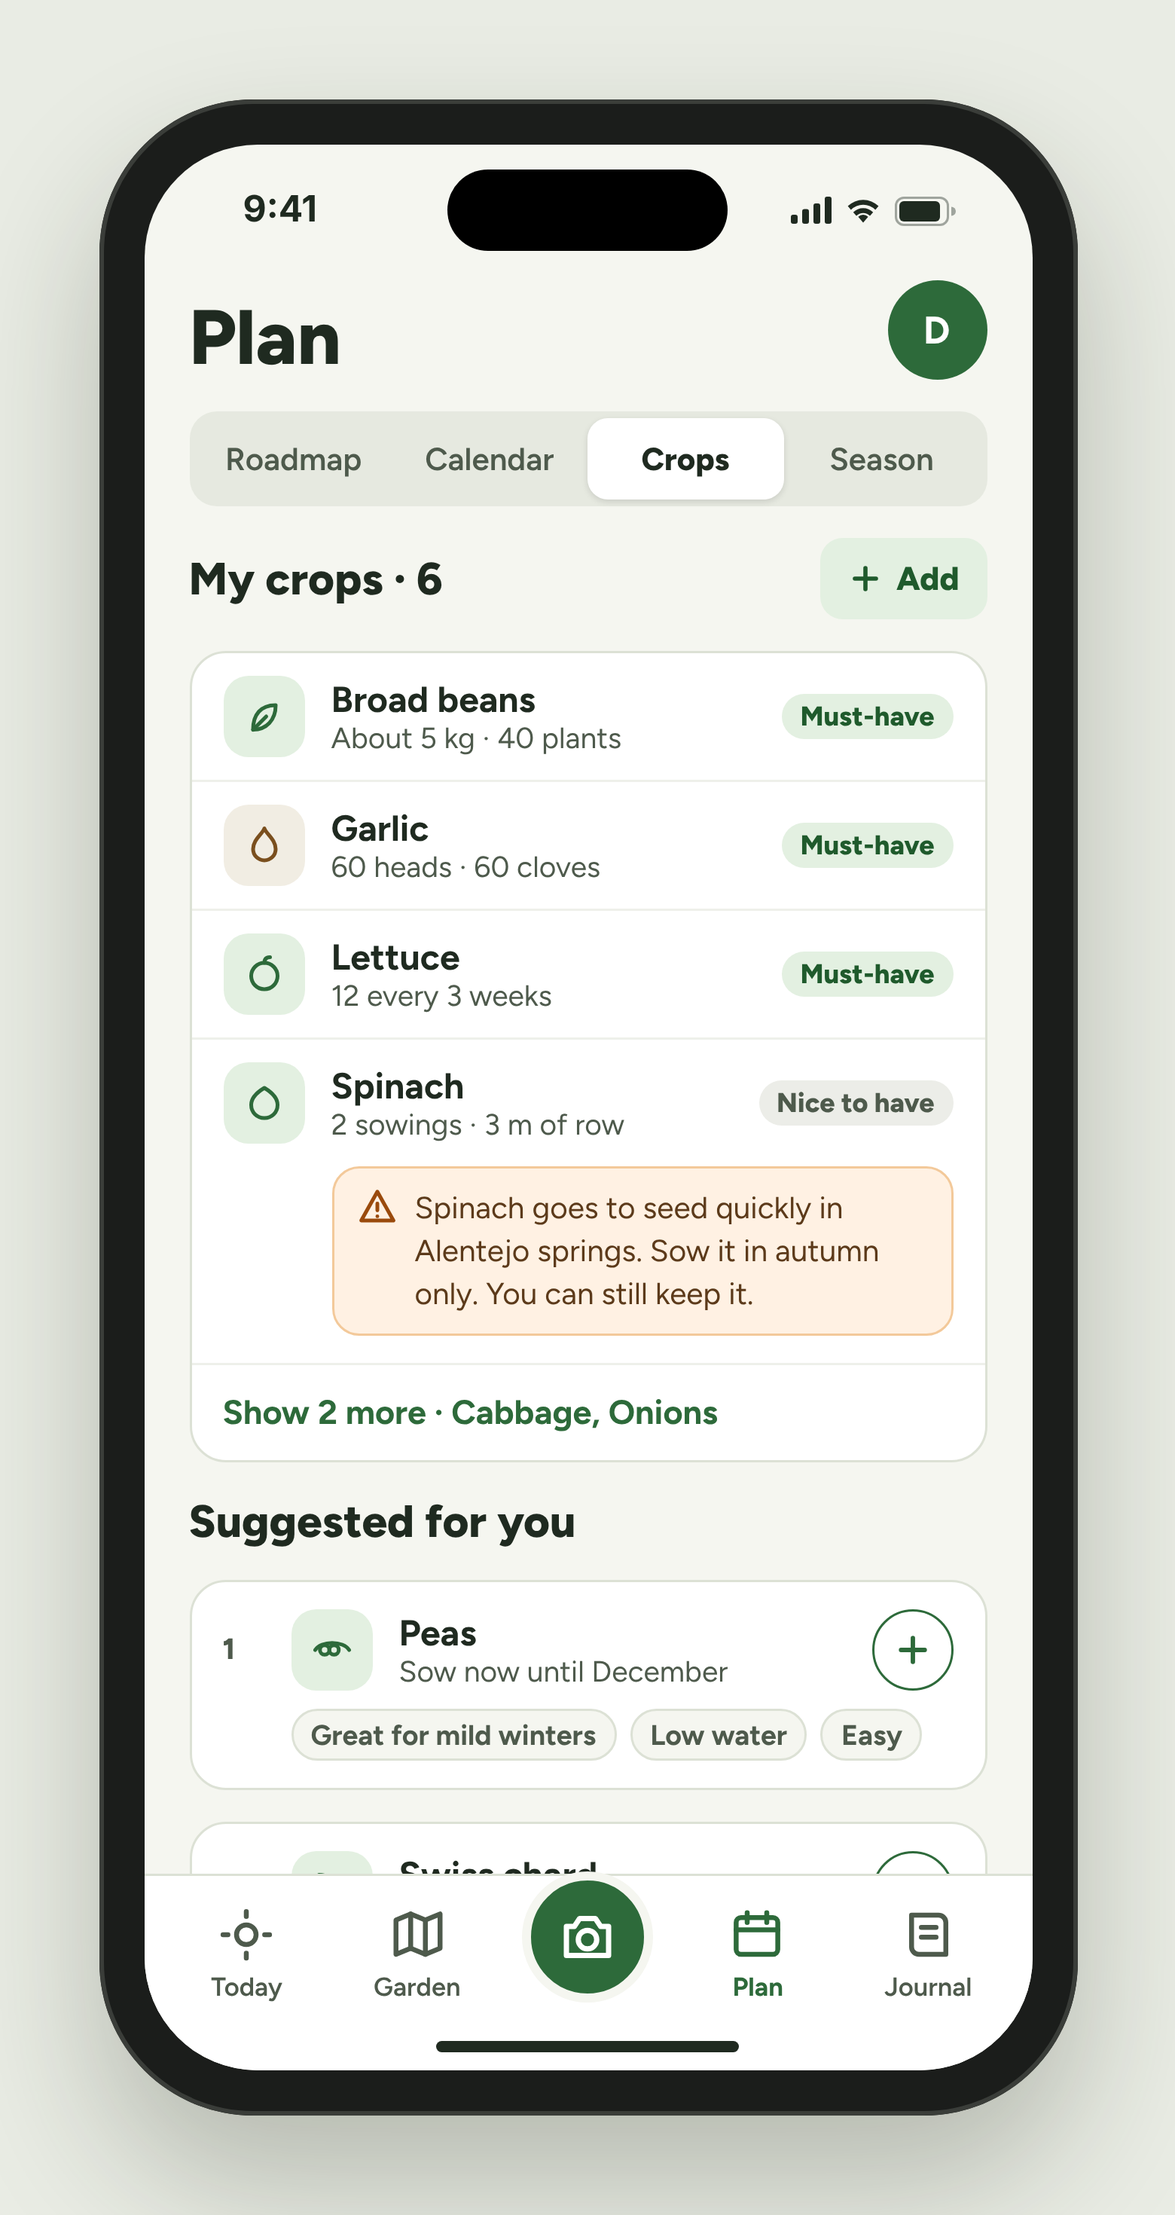
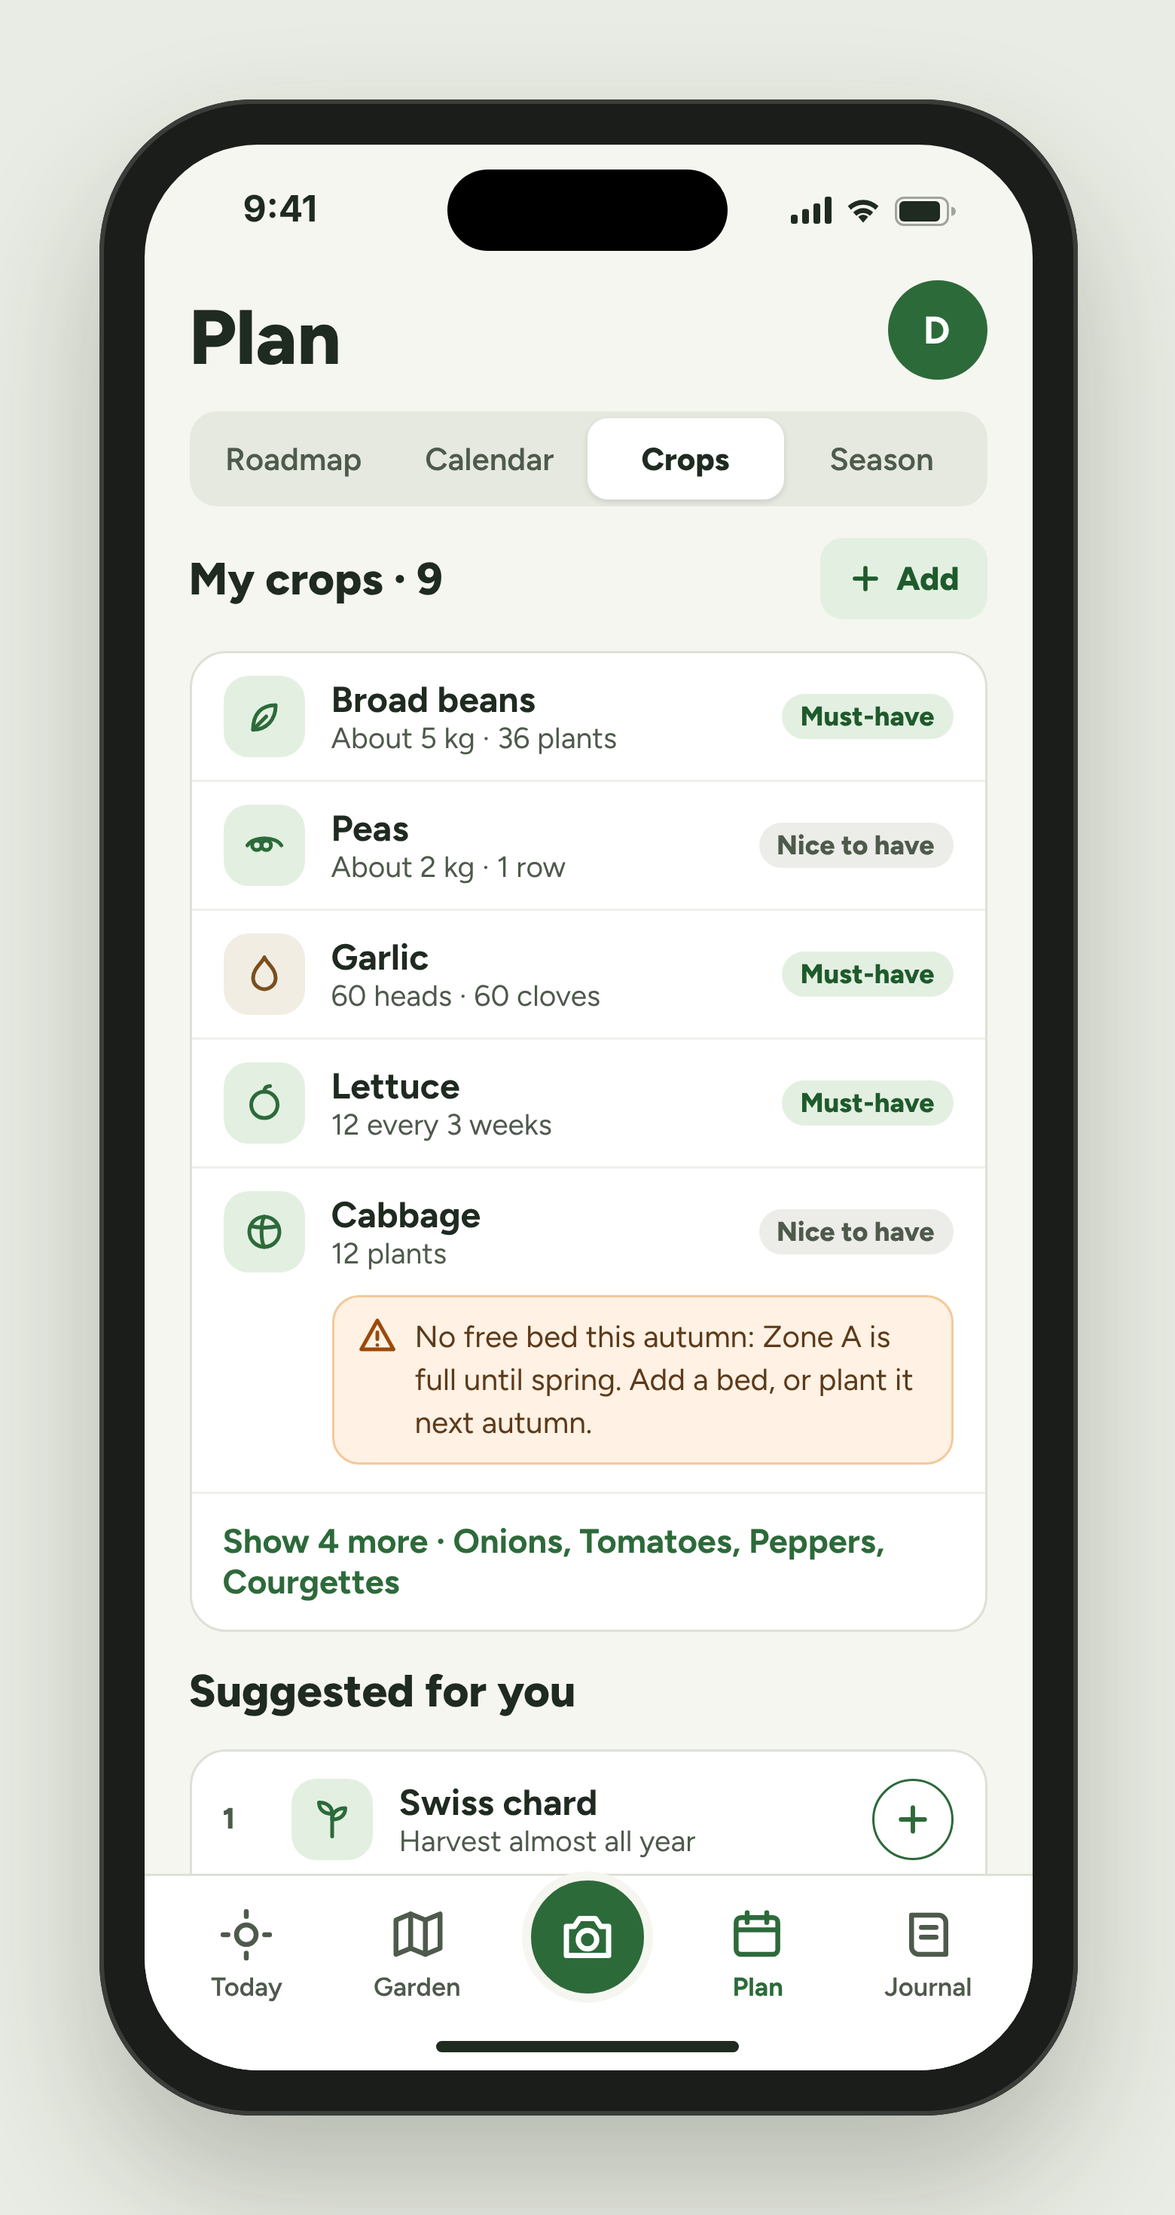
Design E4 my crops: all 9 chosen crops, space warning on cabbage, suggestions exclude chosen crops
Claude-Session: https://claude.ai/code/session_015NynAjU4naPZwzmeuGazot

diff --git a/design/source/E4-my-crops-full.html b/design/source/E4-my-crops-full.html
@@ -1,0 +1,105 @@
+<!doctype html>
+<html lang="en">
+<head>
+<meta charset="utf-8">
+<title>E4 My crops</title>
+<link href="https://fonts.googleapis.com/css2?family=Figtree:wght@400;500;600;700;800&display=swap" rel="stylesheet">
+<link rel="stylesheet" href="frame.css">
+<style>
+  .content { flex: 1; padding: 6px 20px 120px; display: flex; flex-direction: column; gap: 14px; overflow: hidden; }
+  .head { display: flex; justify-content: space-between; align-items: flex-end; }
+  .head h1 { margin: 0; font-size: 34px; font-weight: 800; line-height: 1.1; }
+  .avatar { width: 44px; height: 44px; border-radius: 999px; background: var(--green); color: #fff; font-size: 17px; font-weight: 700; display: flex; align-items: center; justify-content: center; }
+  .seg { display: grid; grid-template-columns: repeat(4, minmax(0, 1fr)); background: #E6E9E0; border-radius: 12px; padding: 3px; }
+  .seg span { height: 36px; display: flex; align-items: center; justify-content: center; border-radius: 9px; font-size: 14px; font-weight: 600; color: var(--muted); }
+  .seg span.on { background: #fff; color: var(--text); font-weight: 800; box-shadow: 0 1px 3px rgba(0,0,0,.12); }
+  .sec { display: flex; justify-content: space-between; align-items: center; }
+  .sec h2 { margin: 0; font-size: 20px; font-weight: 800; }
+  .addbtn { display: flex; align-items: center; gap: 6px; height: 36px; padding: 0 12px; border-radius: 10px; background: var(--green-soft); color: var(--green-ink); font-size: 14.5px; font-weight: 800; }
+  .list { background: #fff; border: 1px solid var(--line); border-radius: 16px; }
+  .crop { display: flex; align-items: center; gap: 12px; padding: 10px 14px; border-top: 1px solid #EEF0EA; }
+  .crop:first-child { border-top: none; }
+  .ic { width: 36px; height: 36px; border-radius: 11px; display: flex; align-items: center; justify-content: center; flex: none; }
+  .crop .n { font-size: 16px; font-weight: 700; }
+  .crop .q { font-size: 13px; color: var(--muted); }
+  .pri { margin-left: auto; font-size: 12px; font-weight: 800; padding: 3px 8px; border-radius: 999px; white-space: nowrap; }
+  .must { background: var(--green-soft); color: var(--green-ink); }
+  .nice { background: #ECEDE8; color: var(--muted); }
+  .warn { margin: 0 14px 12px 62px; background: var(--orange-soft); border: 1px solid #F3C99A; border-radius: 12px; padding: 8px 10px; font-size: 13.5px; color: #5C3A1A; line-height: 1.4; display: flex; gap: 8px; }
+  .sug { background: #fff; border: 1px solid var(--line); border-radius: 16px; padding: 12px 14px; display: flex; flex-direction: column; gap: 8px; }
+  .sug .top { display: flex; align-items: center; gap: 12px; }
+  .rank { font-size: 13px; font-weight: 800; color: var(--muted); width: 18px; }
+  .tags { display: flex; flex-wrap: wrap; gap: 6px; padding-left: 30px; }
+  .tags span { font-size: 12.5px; font-weight: 700; padding: 3px 8px; border-radius: 999px; background: var(--bg); color: var(--muted); border: 1px solid var(--line); }
+  .plus { margin-left: auto; width: 36px; height: 36px; border-radius: 999px; border: 1.5px solid var(--green); display: flex; align-items: center; justify-content: center; flex: none; }
+  .tabbar { position: absolute; bottom: 0; left: 0; right: 0; background: #fff; border-top: 1px solid var(--line); padding: 8px 8px 30px; display: grid; grid-template-columns: repeat(5, minmax(0, 1fr)); align-items: end; z-index: 45; }
+  .tab { color: var(--muted); display: flex; flex-direction: column; align-items: center; gap: 3px; font-size: 11.5px; font-weight: 600; min-height: 48px; justify-content: flex-end; }
+  .tab.on { color: var(--green); font-weight: 700; }
+  .cam { display: flex; justify-content: center; }
+  .cam span { width: 58px; height: 58px; border-radius: 999px; background: var(--green); display: flex; align-items: center; justify-content: center; margin-top: -22px; border: 4px solid var(--bg); }
+</style>
+<style>.stage{height:1130px}.phone{height:1070px}.screen{height:1030px}</style>
+</head>
+<body>
+<div class="stage"><div class="phone"><div class="screen">
+  <div class="island"></div>
+  <div class="status">
+    <span>9:41</span>
+    <span class="icons">
+      <svg width="18" height="12" viewBox="0 0 18 12"><rect x="0" y="8" width="3" height="4" rx="1" fill="#1F2A20"/><rect x="5" y="5.5" width="3" height="6.5" rx="1" fill="#1F2A20"/><rect x="10" y="3" width="3" height="9" rx="1" fill="#1F2A20"/><rect x="15" y="0" width="3" height="12" rx="1" fill="#1F2A20"/></svg>
+      <svg width="16" height="12" viewBox="0 0 16 12"><path d="M8 11.5l2.2-2.6a3.2 3.2 0 0 0-4.4 0z" fill="#1F2A20"/><path d="M3.6 6.9a6.3 6.3 0 0 1 8.8 0l-1.4 1.6a4.2 4.2 0 0 0-6 0z" fill="#1F2A20"/><path d="M1.2 4.2a9.7 9.7 0 0 1 13.6 0l-1.4 1.6a7.6 7.6 0 0 0-10.8 0z" fill="#1F2A20"/></svg>
+      <svg width="27" height="13" viewBox="0 0 27 13"><rect x="0.5" y="0.5" width="23" height="12" rx="3.5" fill="none" stroke="#1F2A20" opacity=".4"/><rect x="2" y="2" width="18" height="9" rx="2" fill="#1F2A20"/><path d="M25 4.5v4a2 2 0 0 0 0-4z" fill="#1F2A20" opacity=".4"/></svg>
+    </span>
+  </div>
+
+  <div class="content">
+    <div class="head"><h1>Plan</h1><div class="avatar">D</div></div>
+    <div class="seg"><span>Roadmap</span><span>Calendar</span><span class="on">Crops</span><span>Season</span></div>
+
+    <div class="sec"><h2>My crops · 9</h2>
+      <span class="addbtn"><svg width="16" height="16" viewBox="0 0 24 24" fill="none" stroke="#1F5A2C" stroke-width="2.8" stroke-linecap="round"><path d="M12 5v14M5 12h14"/></svg>Add</span></div>
+
+    <div class="list">
+      <div class="crop"><span class="ic" style="background:#E3F0E1"><svg width="20" height="20" viewBox="0 0 24 24" fill="none" stroke="#2D6A3A" stroke-width="2" stroke-linecap="round" stroke-linejoin="round"><path d="M6 19c7 0 12-5 12-13-8 0-12 5-12 13z"/><path d="M6 19l7-7"/></svg></span>
+        <div><div class="n">Broad beans</div><div class="q">About 5 kg · 36 plants</div></div><span class="pri must">Must-have</span></div>
+      <div class="crop"><span class="ic" style="background:#E3F0E1"><svg width="20" height="20" viewBox="0 0 24 24" fill="none" stroke="#2D6A3A" stroke-width="2" stroke-linecap="round" stroke-linejoin="round"><circle cx="8" cy="12" r="2.5"/><circle cx="13" cy="12" r="2.5"/><path d="M3 12c3-5 15-5 18 0"/></svg></span>
+        <div><div class="n">Peas</div><div class="q">About 2 kg · 1 row</div></div><span class="pri nice">Nice to have</span></div>
+      <div class="crop"><span class="ic" style="background:#F1EDE3"><svg width="20" height="20" viewBox="0 0 24 24" fill="none" stroke="#7A4F1E" stroke-width="2" stroke-linecap="round" stroke-linejoin="round"><path d="M12 3c-1 3-6 6-6 11a6 6 0 0 0 12 0c0-5-5-8-6-11z"/></svg></span>
+        <div><div class="n">Garlic</div><div class="q">60 heads · 60 cloves</div></div><span class="pri must">Must-have</span></div>
+      <div class="crop"><span class="ic" style="background:#E3F0E1"><svg width="20" height="20" viewBox="0 0 24 24" fill="none" stroke="#2D6A3A" stroke-width="2" stroke-linecap="round" stroke-linejoin="round"><circle cx="12" cy="13" r="7"/><path d="M12 6c0-2 1-3 3-3"/></svg></span>
+        <div><div class="n">Lettuce</div><div class="q">12 every 3 weeks</div></div><span class="pri must">Must-have</span></div>
+      <div class="crop"><span class="ic" style="background:#E3F0E1"><svg width="20" height="20" viewBox="0 0 24 24" fill="none" stroke="#2D6A3A" stroke-width="2" stroke-linecap="round" stroke-linejoin="round"><circle cx="12" cy="12" r="8"/><path d="M12 4c-2 3-2 13 0 16M5 9c4 1 10 1 14 0"/></svg></span>
+        <div><div class="n">Cabbage</div><div class="q">12 plants</div></div><span class="pri nice">Nice to have</span></div>
+      <div class="warn">
+        <svg width="18" height="18" viewBox="0 0 24 24" fill="none" stroke="#9A4A0C" stroke-width="2.2" stroke-linecap="round" stroke-linejoin="round" style="flex: none"><path d="M12 3l9.5 17h-19z"/><path d="M12 10v4M12 17.5v.01"/></svg>
+        <span>No free bed this autumn: Zone A is full until spring. Add a bed, or plant it next autumn.</span>
+      </div>
+      <div style="border-top: 1px solid #EEF0EA; padding: 12px 14px; font-size: 15px; font-weight: 700; color: var(--green)">Show 4 more · Onions, Tomatoes, Peppers, Courgettes</div>
+    </div>
+
+    <div class="sec"><h2>Suggested for you</h2></div>
+    <div class="sug">
+      <div class="top"><span class="rank">1</span><span class="ic" style="background:#E3F0E1"><svg width="20" height="20" viewBox="0 0 24 24" fill="none" stroke="#2D6A3A" stroke-width="2" stroke-linecap="round" stroke-linejoin="round"><path d="M12 21V9"/><path d="M12 9c-4 0-7-2-7-6 4 0 7 2 7 6zM12 12c4 0 7-2 7-6-4 0-7 2-7 6z"/></svg></span>
+        <div><div style="font-size: 16px; font-weight: 700">Swiss chard</div><div style="font-size: 13px; color: var(--muted)">Harvest almost all year</div></div>
+        <span class="plus"><svg width="18" height="18" viewBox="0 0 24 24" fill="none" stroke="#2D6A3A" stroke-width="2.6" stroke-linecap="round"><path d="M12 5v14M5 12h14"/></svg></span></div>
+      <div class="tags"><span>Handles heat</span><span>Easy</span><span>Fits Zone A</span></div>
+    </div>
+    <div class="sug">
+      <div class="top"><span class="rank">2</span><span class="ic" style="background:#E3F0E1"><svg width="20" height="20" viewBox="0 0 24 24" fill="none" stroke="#2D6A3A" stroke-width="2" stroke-linecap="round" stroke-linejoin="round"><path d="M12 20c-4 0-7-3-7-7 0-3 2-6 7-9 5 3 7 6 7 9 0 4-3 7-7 7z"/></svg></span>
+        <div><div style="font-size: 16px; font-weight: 700">Spinach</div><div style="font-size: 13px; color: var(--muted)">Sow now until December</div></div>
+        <span class="plus"><svg width="18" height="18" viewBox="0 0 24 24" fill="none" stroke="#2D6A3A" stroke-width="2.6" stroke-linecap="round"><path d="M12 5v14M5 12h14"/></svg></span></div>
+      <div class="tags"><span>Autumn only here</span><span>Quick</span><span>Easy</span></div>
+    </div>
+  </div>
+
+  <nav class="tabbar">
+    <div class="tab"><svg width="26" height="26" viewBox="0 0 24 24" fill="none" stroke="currentColor" stroke-width="2" stroke-linecap="round" stroke-linejoin="round"><circle cx="12" cy="12" r="4"/><path d="M12 2.5v2M12 19.5v2M2.5 12h2M19.5 12h2"/></svg>Today</div>
+    <div class="tab"><svg width="26" height="26" viewBox="0 0 24 24" fill="none" stroke="currentColor" stroke-width="2" stroke-linecap="round" stroke-linejoin="round"><path d="M3 6l6-2.5 6 2.5 6-2.5v14l-6 2.5-6-2.5-6 2.5z"/><path d="M9 3.5v14M15 6v14"/></svg>Garden</div>
+    <div class="cam"><span><svg width="28" height="28" viewBox="0 0 24 24" fill="none" stroke="#FFFFFF" stroke-width="2" stroke-linecap="round" stroke-linejoin="round"><path d="M4 8h3l2-3h6l2 3h3v11H4z"/><circle cx="12" cy="13" r="3.5"/></svg></span></div>
+    <div class="tab on"><svg width="26" height="26" viewBox="0 0 24 24" fill="none" stroke="currentColor" stroke-width="2" stroke-linecap="round" stroke-linejoin="round"><rect x="3.5" y="5" width="17" height="15" rx="2"/><path d="M3.5 10h17M8 3v4M16 3v4"/></svg>Plan</div>
+    <div class="tab"><svg width="26" height="26" viewBox="0 0 24 24" fill="none" stroke="currentColor" stroke-width="2" stroke-linecap="round" stroke-linejoin="round"><path d="M5 4h11a3 3 0 0 1 3 3v13H8a3 3 0 0 1-3-3z"/><path d="M9 9h6M9 13h6"/></svg>Journal</div>
+  </nav>
+  <div class="home"></div>
+</div></div></div>
+</body>
+</html>

diff --git a/design/source/E4-my-crops.html b/design/source/E4-my-crops.html
@@ -55,37 +55,39 @@
     <div class="head"><h1>Plan</h1><div class="avatar">D</div></div>
     <div class="seg"><span>Roadmap</span><span>Calendar</span><span class="on">Crops</span><span>Season</span></div>
 
-    <div class="sec"><h2>My crops · 6</h2>
+    <div class="sec"><h2>My crops · 9</h2>
       <span class="addbtn"><svg width="16" height="16" viewBox="0 0 24 24" fill="none" stroke="#1F5A2C" stroke-width="2.8" stroke-linecap="round"><path d="M12 5v14M5 12h14"/></svg>Add</span></div>
 
     <div class="list">
       <div class="crop"><span class="ic" style="background:#E3F0E1"><svg width="20" height="20" viewBox="0 0 24 24" fill="none" stroke="#2D6A3A" stroke-width="2" stroke-linecap="round" stroke-linejoin="round"><path d="M6 19c7 0 12-5 12-13-8 0-12 5-12 13z"/><path d="M6 19l7-7"/></svg></span>
-        <div><div class="n">Broad beans</div><div class="q">About 5 kg · 40 plants</div></div><span class="pri must">Must-have</span></div>
+        <div><div class="n">Broad beans</div><div class="q">About 5 kg · 36 plants</div></div><span class="pri must">Must-have</span></div>
+      <div class="crop"><span class="ic" style="background:#E3F0E1"><svg width="20" height="20" viewBox="0 0 24 24" fill="none" stroke="#2D6A3A" stroke-width="2" stroke-linecap="round" stroke-linejoin="round"><circle cx="8" cy="12" r="2.5"/><circle cx="13" cy="12" r="2.5"/><path d="M3 12c3-5 15-5 18 0"/></svg></span>
+        <div><div class="n">Peas</div><div class="q">About 2 kg · 1 row</div></div><span class="pri nice">Nice to have</span></div>
       <div class="crop"><span class="ic" style="background:#F1EDE3"><svg width="20" height="20" viewBox="0 0 24 24" fill="none" stroke="#7A4F1E" stroke-width="2" stroke-linecap="round" stroke-linejoin="round"><path d="M12 3c-1 3-6 6-6 11a6 6 0 0 0 12 0c0-5-5-8-6-11z"/></svg></span>
         <div><div class="n">Garlic</div><div class="q">60 heads · 60 cloves</div></div><span class="pri must">Must-have</span></div>
       <div class="crop"><span class="ic" style="background:#E3F0E1"><svg width="20" height="20" viewBox="0 0 24 24" fill="none" stroke="#2D6A3A" stroke-width="2" stroke-linecap="round" stroke-linejoin="round"><circle cx="12" cy="13" r="7"/><path d="M12 6c0-2 1-3 3-3"/></svg></span>
         <div><div class="n">Lettuce</div><div class="q">12 every 3 weeks</div></div><span class="pri must">Must-have</span></div>
-      <div class="crop"><span class="ic" style="background:#E3F0E1"><svg width="20" height="20" viewBox="0 0 24 24" fill="none" stroke="#2D6A3A" stroke-width="2" stroke-linecap="round" stroke-linejoin="round"><path d="M12 20c-4 0-7-3-7-7 0-3 2-6 7-9 5 3 7 6 7 9 0 4-3 7-7 7z"/></svg></span>
-        <div><div class="n">Spinach</div><div class="q">2 sowings · 3 m of row</div></div><span class="pri nice">Nice to have</span></div>
+      <div class="crop"><span class="ic" style="background:#E3F0E1"><svg width="20" height="20" viewBox="0 0 24 24" fill="none" stroke="#2D6A3A" stroke-width="2" stroke-linecap="round" stroke-linejoin="round"><circle cx="12" cy="12" r="8"/><path d="M12 4c-2 3-2 13 0 16M5 9c4 1 10 1 14 0"/></svg></span>
+        <div><div class="n">Cabbage</div><div class="q">12 plants</div></div><span class="pri nice">Nice to have</span></div>
       <div class="warn">
         <svg width="18" height="18" viewBox="0 0 24 24" fill="none" stroke="#9A4A0C" stroke-width="2.2" stroke-linecap="round" stroke-linejoin="round" style="flex: none"><path d="M12 3l9.5 17h-19z"/><path d="M12 10v4M12 17.5v.01"/></svg>
-        <span>Spinach goes to seed quickly in Alentejo springs. Sow it in autumn only. You can still keep it.</span>
+        <span>No free bed this autumn: Zone A is full until spring. Add a bed, or plant it next autumn.</span>
       </div>
-      <div style="border-top: 1px solid #EEF0EA; padding: 12px 14px; font-size: 15px; font-weight: 700; color: var(--green)">Show 2 more · Cabbage, Onions</div>
+      <div style="border-top: 1px solid #EEF0EA; padding: 12px 14px; font-size: 15px; font-weight: 700; color: var(--green)">Show 4 more · Onions, Tomatoes, Peppers, Courgettes</div>
     </div>
 
     <div class="sec"><h2>Suggested for you</h2></div>
     <div class="sug">
-      <div class="top"><span class="rank">1</span><span class="ic" style="background:#E3F0E1"><svg width="20" height="20" viewBox="0 0 24 24" fill="none" stroke="#2D6A3A" stroke-width="2" stroke-linecap="round" stroke-linejoin="round"><circle cx="8" cy="12" r="2.5"/><circle cx="13" cy="12" r="2.5"/><path d="M3 12c3-5 15-5 18 0"/></svg></span>
-        <div><div style="font-size: 16px; font-weight: 700">Peas</div><div style="font-size: 13px; color: var(--muted)">Sow now until December</div></div>
-        <span class="plus"><svg width="18" height="18" viewBox="0 0 24 24" fill="none" stroke="#2D6A3A" stroke-width="2.6" stroke-linecap="round"><path d="M12 5v14M5 12h14"/></svg></span></div>
-      <div class="tags"><span>Great for mild winters</span><span>Low water</span><span>Easy</span></div>
-    </div>
-    <div class="sug">
-      <div class="top"><span class="rank">2</span><span class="ic" style="background:#E3F0E1"><svg width="20" height="20" viewBox="0 0 24 24" fill="none" stroke="#2D6A3A" stroke-width="2" stroke-linecap="round" stroke-linejoin="round"><path d="M12 21V9"/><path d="M12 9c-4 0-7-2-7-6 4 0 7 2 7 6zM12 12c4 0 7-2 7-6-4 0-7 2-7 6z"/></svg></span>
+      <div class="top"><span class="rank">1</span><span class="ic" style="background:#E3F0E1"><svg width="20" height="20" viewBox="0 0 24 24" fill="none" stroke="#2D6A3A" stroke-width="2" stroke-linecap="round" stroke-linejoin="round"><path d="M12 21V9"/><path d="M12 9c-4 0-7-2-7-6 4 0 7 2 7 6zM12 12c4 0 7-2 7-6-4 0-7 2-7 6z"/></svg></span>
         <div><div style="font-size: 16px; font-weight: 700">Swiss chard</div><div style="font-size: 13px; color: var(--muted)">Harvest almost all year</div></div>
         <span class="plus"><svg width="18" height="18" viewBox="0 0 24 24" fill="none" stroke="#2D6A3A" stroke-width="2.6" stroke-linecap="round"><path d="M12 5v14M5 12h14"/></svg></span></div>
       <div class="tags"><span>Handles heat</span><span>Easy</span><span>Fits Zone A</span></div>
+    </div>
+    <div class="sug">
+      <div class="top"><span class="rank">2</span><span class="ic" style="background:#E3F0E1"><svg width="20" height="20" viewBox="0 0 24 24" fill="none" stroke="#2D6A3A" stroke-width="2" stroke-linecap="round" stroke-linejoin="round"><path d="M12 20c-4 0-7-3-7-7 0-3 2-6 7-9 5 3 7 6 7 9 0 4-3 7-7 7z"/></svg></span>
+        <div><div style="font-size: 16px; font-weight: 700">Spinach</div><div style="font-size: 13px; color: var(--muted)">Sow now until December</div></div>
+        <span class="plus"><svg width="18" height="18" viewBox="0 0 24 24" fill="none" stroke="#2D6A3A" stroke-width="2.6" stroke-linecap="round"><path d="M12 5v14M5 12h14"/></svg></span></div>
+      <div class="tags"><span>Autumn only here</span><span>Quick</span><span>Easy</span></div>
     </div>
   </div>
 
